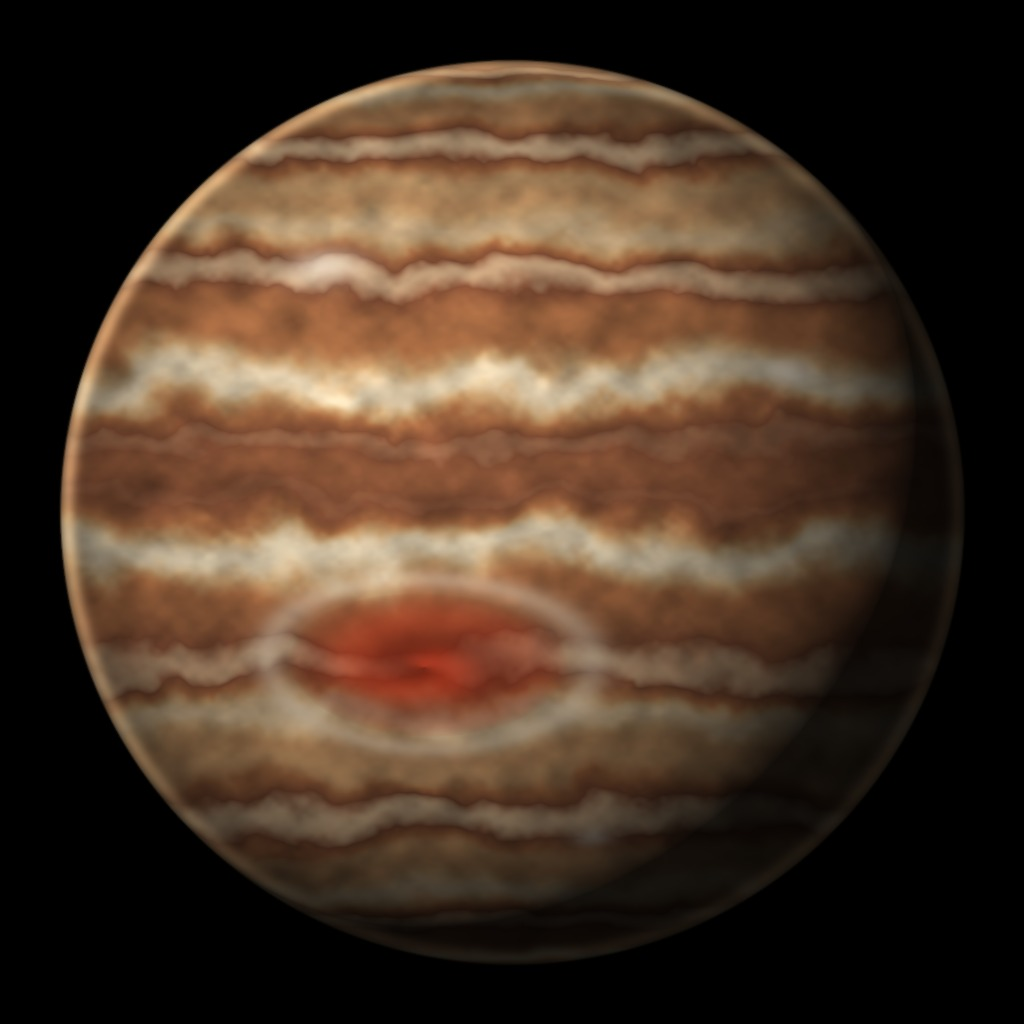
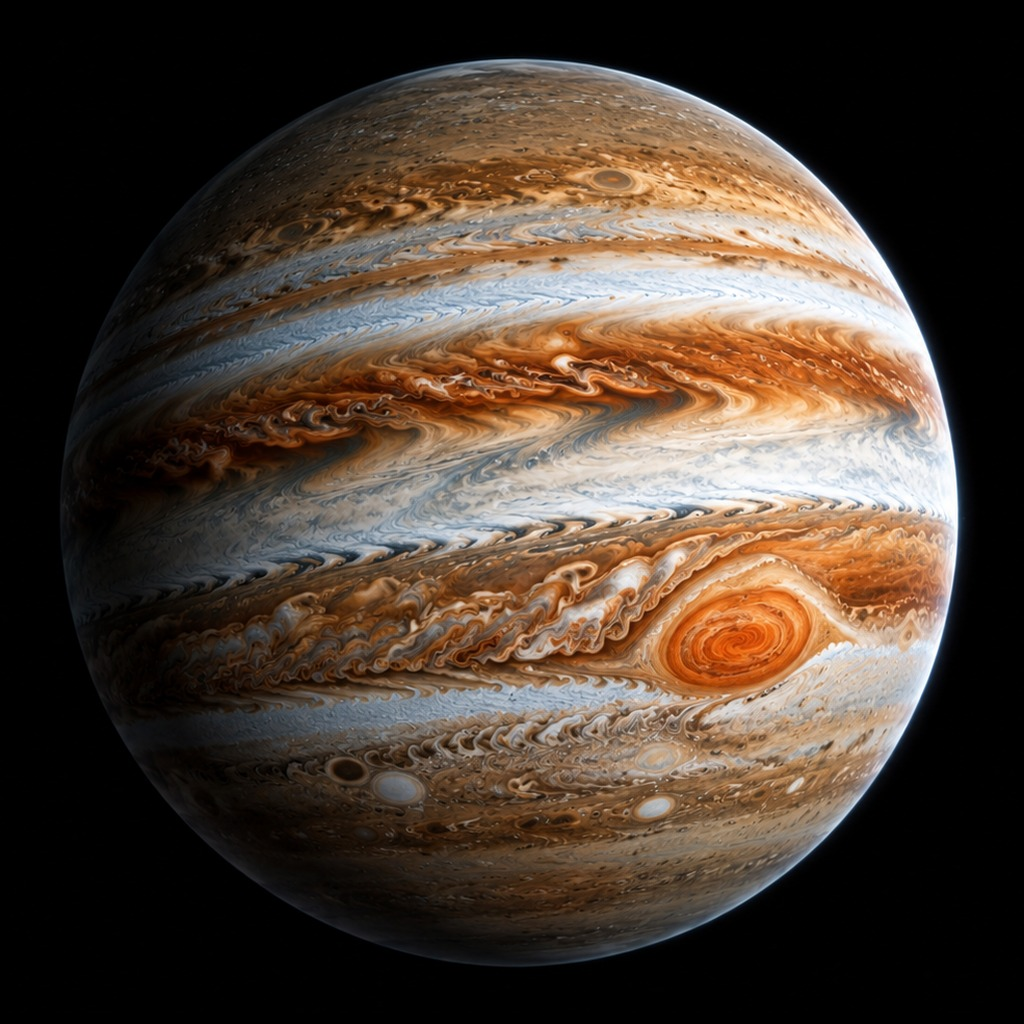
4 面の木星と星雲を、送ってもらった絵に差し替え (v0.10.1)
- jupiter.jpg: 木星の絵を地球と同じ割合 (中心が真ん中・半径 0.442) に切り出した 1024 四方 (上下は黒で足した)
- space4.jpg: 木星色の星雲。1456x728 にして左右の端の差 3.7 → 0 (両側 90 列でならした)。4 面の空に使う
- 1 枚版が 4.2MB になったので、大きさの上限を 4MB → 5MB に (Artifact の上限は 16MB)

Claude-Session: https://claude.ai/code/session_01WDQTh22rZnnPpnZeWGjk7G

diff --git a/browser-test.js b/browser-test.js
@@ -146,7 +146,7 @@ async function run() {
     ok(/^v\d+\.\d+\.\d+$/.test(title.version), `版の番号が出ている (${title.version})`);
     ok(title.wide <= 0 && title.tall <= 0, 'はみ出してスクロールしない');
     ok(title.rotate === 'none', '横向きでは「横にして」が出ない');
-    await page.waitForFunction(() => ['space.jpg', 'space2.jpg', 'space3.jpg', 'earth.jpg', 'mercury.jpg', 'mars.jpg', 'jupiter.jpg', 'hull.jpg', 'title_planet.jpg'].every((f) => window.__app.assetsLoaded()[f] !== undefined), null, { timeout: 20000 });
+    await page.waitForFunction(() => ['space.jpg', 'space2.jpg', 'space3.jpg', 'space4.jpg', 'earth.jpg', 'mercury.jpg', 'mars.jpg', 'jupiter.jpg', 'hull.jpg', 'title_planet.jpg'].every((f) => window.__app.assetsLoaded()[f] !== undefined), null, { timeout: 20000 });
     const assets = await page.evaluate(() => window.__app.assetsLoaded());
     ok(assets['space.jpg'] === true && assets['earth.jpg'] === true && assets['mars.jpg'] === true && assets['jupiter.jpg'] === true && assets['space2.jpg'] === true && assets['space3.jpg'] === true && assets['mercury.jpg'] === true && assets['hull.jpg'] === true, '宇宙の背景・地球・火星・木星・戦艦の装甲の絵が読み込まれる');
     ok(assets['title_planet.jpg'] === true, 'タイトルの大きな惑星の絵が読み込まれる');
@@ -739,7 +739,7 @@ async function run() {
     // 3 面の戦艦を沈めると 4 面 (木星) へ。ボスは球と輪の木星要塞
     await page.waitForFunction(() => window.__app.game().level === 4, null, { timeout: 60000 });
     await page.evaluate(() => new Promise((r) => requestAnimationFrame(() => requestAnimationFrame(r))));
-    ok(await card(4, 'JUPITER ORBIT', '木星軌道') && await page.evaluate(() => window.__app.planetKind() === 'jupiter' && window.__app.screen() === 'play'), '3 面の戦艦を沈めると 4 面 (木星・「STAGE 4」の札) へ進む');
+    ok(await card(4, 'JUPITER ORBIT', '木星軌道') && await page.evaluate(() => window.__app.planetKind() === 'jupiter' && window.__app.skyKind() === 'space4' && window.__app.screen() === 'play'), '3 面の戦艦を沈めると 4 面 (木星・「STAGE 4」の札) へ進む');
     await page.evaluate(() => { const g = window.__app.game(); g.stage = 'gap2'; g.stageTimer = 99; g.fighters = []; });
     await page.waitForFunction(() => window.__app.game().boss && window.__app.game().boss.shown, null, { timeout: 30000 });
     await page.evaluate(() => { window.__app.game().boss.arriveT = 100; });
@@ -767,16 +767,16 @@ async function run() {
     const sp = await sctx.newPage();
     watch(sp, '1枚版');
     await sp.goto('file://' + single);
-    await sp.waitForFunction(() => window.__app && ['space.jpg', 'space2.jpg', 'space3.jpg', 'earth.jpg', 'mercury.jpg', 'mars.jpg', 'jupiter.jpg', 'hull.jpg', 'gauges.png', 'title_planet.jpg', 'cutin.png', 'plume.png'].every((f) => window.__app.assetsLoaded()[f] !== undefined), null, { timeout: 20000 });
+    await sp.waitForFunction(() => window.__app && ['space.jpg', 'space2.jpg', 'space3.jpg', 'space4.jpg', 'earth.jpg', 'mercury.jpg', 'mars.jpg', 'jupiter.jpg', 'hull.jpg', 'gauges.png', 'title_planet.jpg', 'cutin.png', 'plume.png'].every((f) => window.__app.assetsLoaded()[f] !== undefined), null, { timeout: 20000 });
     const sa = await sp.evaluate(() => window.__app.assetsLoaded());
-    ok(['space.jpg', 'space2.jpg', 'space3.jpg', 'earth.jpg', 'mercury.jpg', 'mars.jpg', 'jupiter.jpg', 'hull.jpg', 'gauges.png', 'title_planet.jpg', 'cutin.png', 'plume.png'].every((f) => sa[f] === true), 'ほかのファイルなしで、絵まで出る (背景・地球・火星・装甲・ゲージ・タイトルの惑星・カットイン・噴射)');
+    ok(['space.jpg', 'space2.jpg', 'space3.jpg', 'space4.jpg', 'earth.jpg', 'mercury.jpg', 'mars.jpg', 'jupiter.jpg', 'hull.jpg', 'gauges.png', 'title_planet.jpg', 'cutin.png', 'plume.png'].every((f) => sa[f] === true), 'ほかのファイルなしで、絵まで出る (背景・地球・火星・装甲・ゲージ・タイトルの惑星・カットイン・噴射)');
     const vp = await sp.evaluate(() => ({
       meta: (document.querySelector('meta[name=viewport]') || {}).content || '',
       scale: visualViewport.scale, w: innerWidth
     }));
     ok(/user-scalable=no/.test(vp.meta) && /maximum-scale=1/.test(vp.meta), '1 枚版にも「拡大しない」指定が入っている');
     ok(vp.scale === 1 && vp.w === 932, `1 枚版も倍率 1 で、幅 932 (倍率 ${vp.scale} / 幅 ${vp.w})`);
-    ok(fs.statSync(single).size < 4 * 1024 * 1024, `大きさ ${(fs.statSync(single).size / 1024 / 1024).toFixed(1)}MB`);
+    ok(fs.statSync(single).size < 5 * 1024 * 1024, `大きさ ${(fs.statSync(single).size / 1024 / 1024).toFixed(1)}MB`);
     await sctx.close();
 
     // ------------------------------------------------ 縦向き

diff --git a/app.js b/app.js
@@ -202,7 +202,7 @@
     const m = new THREE.Mesh(new THREE.SphereGeometry(20000, 64, 32), mat);
     m.renderOrder = -10;
     sky.add(m);
-    // 1 面は紫の星雲 (space.jpg)、2 面は灰色の星雲 (space2.jpg)、3 面は琥珀色の星雲 (space3.jpg)。面が変わったら setSkyKind で替える
+    // 1 面は紫の星雲 (space.jpg)、2 面は灰色の星雲 (space2.jpg)、3 面は琥珀色の星雲 (space3.jpg)、4 面は木星色の星雲 (space4.jpg)。面が変わったら setSkyKind で替える
     sky.userData.tex = {};
     sky.userData.kind = 'space';
     function useSky(name) {
@@ -213,7 +213,7 @@
       mat.needsUpdate = true;
     }
     sky.userData.use = useSky;
-    ['space', 'space2', 'space3'].forEach(function (name) {
+    ['space', 'space2', 'space3', 'space4'].forEach(function (name) {
       loadTex(name + '.jpg', function (t) {
         // 内側から見ると左右が反転するので戻す
         t.wrapS = THREE.RepeatWrapping;
@@ -2700,7 +2700,7 @@
     planet.quaternion.copy(camera.quaternion);
     planet.visible = true; titlePlanet.visible = false; titleGlow.visible = false;
     setPlanetKind(['earth', 'earth', 'mercury', 'mars', 'jupiter'][game.level] || 'earth');
-    setSkyKind(['space', 'space', 'space2', 'space3', 'space3'][game.level] || 'space');
+    setSkyKind(['space', 'space', 'space2', 'space3', 'space4'][game.level] || 'space');
   }
 
   // 見本と見比べる用: 機体だけを決まった向きから写す (テストから __app.inspect で使う)

diff --git a/bundle.js b/bundle.js
@@ -7,7 +7,7 @@ const path = require('node:path');
 
 const out = process.argv[2];
 if (!out) { console.error('使い方: node bundle.js 出力先.html'); process.exit(1); }
-const ASSETS = ['space.jpg', 'space2.jpg','space3.jpg','mercury.jpg', 'earth.jpg', 'mars.jpg', 'jupiter.jpg', 'hull.jpg', 'gauges.png', 'title_planet.jpg', 'cutin.png', 'plume.png'];
+const ASSETS = ['space.jpg', 'space2.jpg','space3.jpg','space4.jpg','mercury.jpg', 'earth.jpg', 'mars.jpg', 'jupiter.jpg', 'hull.jpg', 'gauges.png', 'title_planet.jpg', 'cutin.png', 'plume.png'];
 const read = (f) => fs.readFileSync(path.join(__dirname, f), 'utf8');
 // </script> が中にあると、そこで埋め込みが切れる
 const safe = (js) => js.replace(/<\/script/gi, '<\\/script');

diff --git a/CLAUDE.md b/CLAUDE.md
@@ -14,13 +14,13 @@
   (部位の耐久 1.3 倍・砲台の撃つ間隔 0.8 倍・主砲の間隔 0.8 倍・護衛機 4 機。`TUNING.boss3*`)。
   **大きさは 1.5 倍** (`boss3Size`。`makeBoss` が部位の位置・当たりの大きさ・立体 (`scaledSolids`)・主砲の位置を k 倍にし、見た目は `bossObj.scale`。砲台の数と配置の比率は 1 面と同じ。止まる所は距離を半分だけ (1.25 倍) 遠くして、全体が画面に収まる)。3 面の戦艦を沈めて初めてクリア。
   「巨大戦艦から」で始めても、沈めたあと 2 面へ進む。成績の線は面の数で伸ばす (`result()`。3 面まで遊ぶと 2.3 倍 = 自動操縦の腕前 1・0.7 は S、0.45 は A)
-- **4 面** 木星 (`jupiter.jpg`)・空は 3 面の `space3.jpg` を仮に流用。第1波・第2波のあと、ボスは**木星要塞** (`BOSS_TYPES.fortress`。3 面の戦艦を沈めて 7 秒後に始まる)。
+- **4 面** 木星 (`jupiter.jpg`)・木星色の星雲 (`space4.jpg`)。第1波・第2波のあと、ボスは**木星要塞** (`BOSS_TYPES.fortress`。3 面の戦艦を沈めて 7 秒後に始まる)。
   戦艦とは作りを変えた**球と輪の要塞**: 中心の球 (半径 125m。六角の装甲板を貼る。当たりは外接する多面体 r=132)・傾きの違う 3 枚の厚い輪 (C 150–172・A 188–232・B 246–290。半径の範囲が重ならない殻なので輪どうしは交わらない)・
   輪をつなぐ軸 (ジンバル) と球から出る 4 本の支柱・砲塔 12 (輪に載る台つき)・エンジン 4 (輪 B のふち)・主砲 (正面 -x。嵐のように渦巻く赤い大砲 = 大赤斑。装甲板が前をふさぐ)・コア (-x 190m、輪のなかで赤く光る)。
   立体の表は `buildFortress()`。立体に任意の回転 `m` (3x3) と位置 `at` を持たせて、傾いた輪や球の板を表す (見た目も当たりも同じ表から)。艦は 1 面の戦艦より大きく、**ゆっくり自機のほうへ向きを変え続ける** (`b.rot`。0.05rad/s・コアの段階は 0.08)。
   主砲は面が自機のほうを 0.6 (cos) 以上向いているときだけ溜め始める。向きを変える速さを 0.12 にすると後ろ側の砲塔へ回り込めず「ターンテーブル」になった (自動操縦で止まる) ので 0.05 にした。
   強さは `TUNING.fort*` (砲塔 12・エンジン 26・コア 55・撃つ間隔 1.1 倍・護衛機 3 機)。自動操縦の 4 通り: 腕前 1 は 313–333 秒、0.7 は 319–392 秒で全部勝ち、0.45 は 4 通り中 3 勝 (1 つは 1000 秒で詰まる)。
-  4 面まで通して成績の線は 3 倍 (`result()`。腕前 1・0.7 は S、0.45 は A)。「巨大戦艦から」で始めた場合は 1 面の戦艦のあと 2 面へ進む (変わらず)。木星の絵 `jupiter.jpg` は**仮に手続きで作った絵** (大赤斑つき)。差し替えは同じ割合 (円の中心が真ん中・半径は幅の 0.442) の 1024 四方で。
+  4 面まで通して成績の線は 3 倍 (`result()`。腕前 1・0.7 は S、0.45 は A)。「巨大戦艦から」で始めた場合は 1 面の戦艦のあと 2 面へ進む (変わらず)。`jupiter.jpg` は送ってもらった木星の絵を、地球と同じ割合 (円の中心が真ん中・半径は幅の 0.442。元の円は中心 (830, 459.5)・半径 435.5) に切り出した 1024 四方 (上下は黒で足した)。`space4.jpg` は送ってもらった 1456x720 の星雲を 1456x728 にし、左右の端の差を両側 90 列でならした (端の差 3.7 → 0)。切り替えは `setSkyKind`。
 - 各面の始まりは 3.5 秒の間のあとに第1波 (`stage: 'intro'`)
 
 - **面の始まりの札** (`showStageCard`): 見本の画像 (六角の二重の枠・グラデーションの「STAGE n」・英名・日本語名) を、数字と名前を替えられるよう
